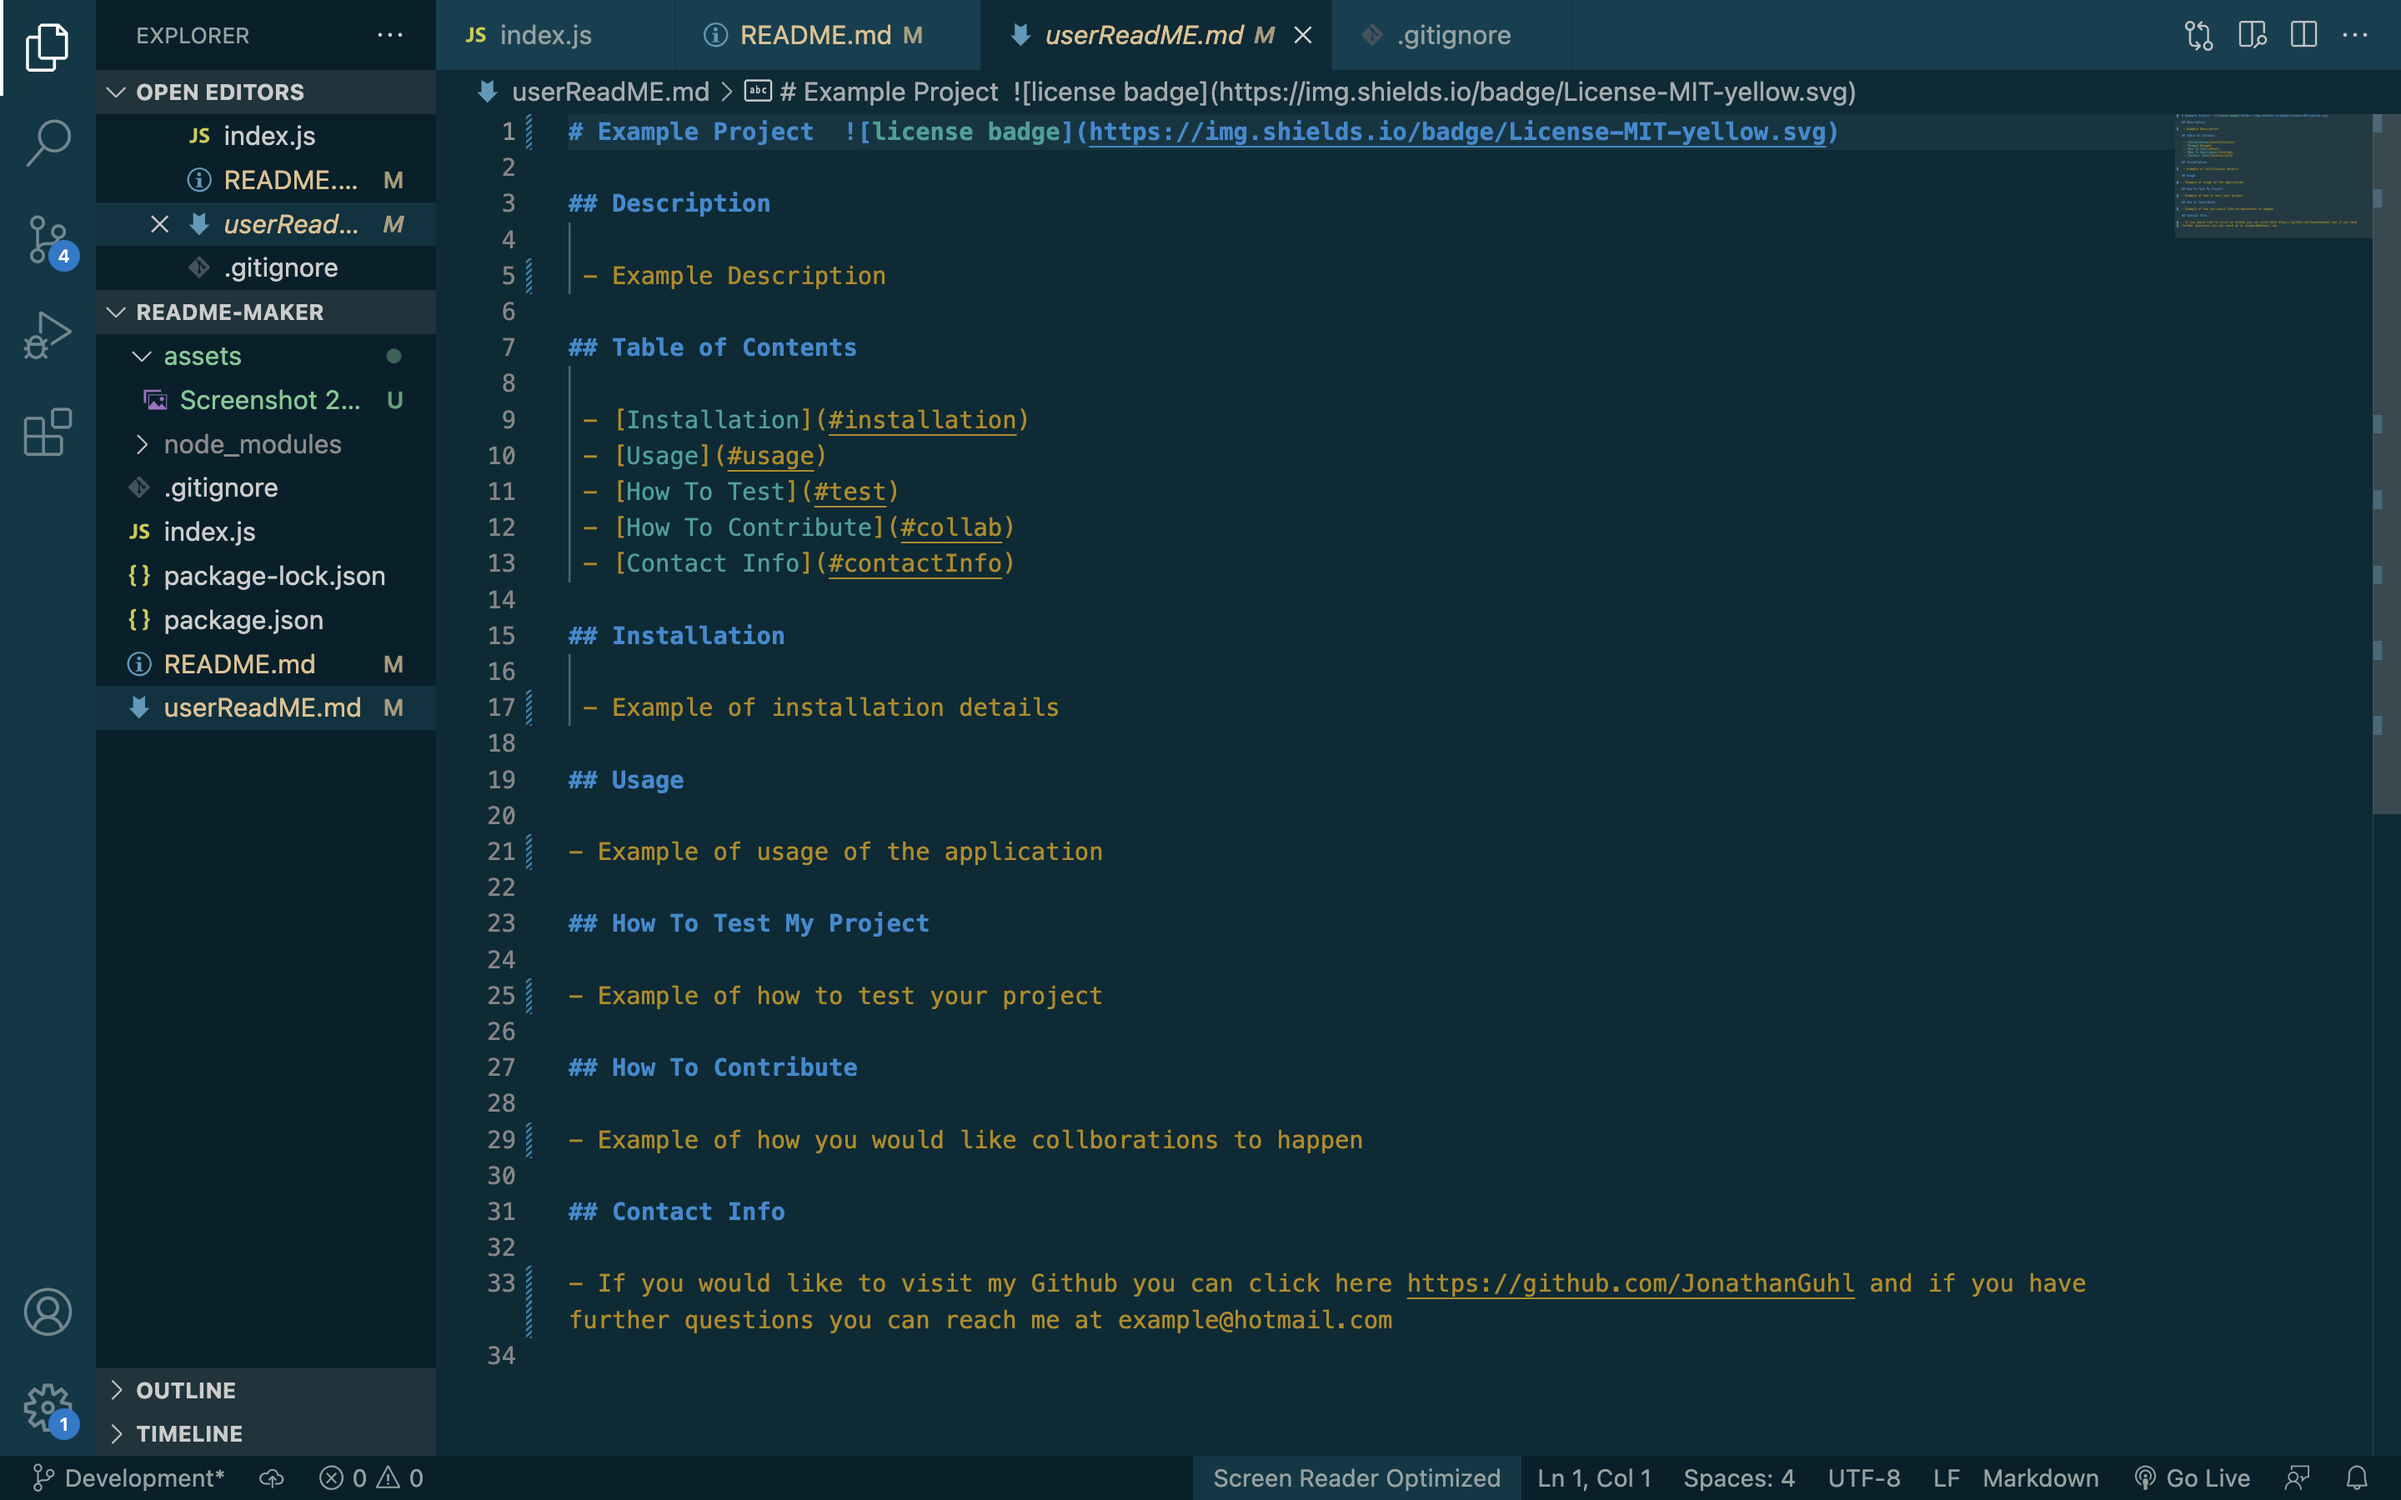
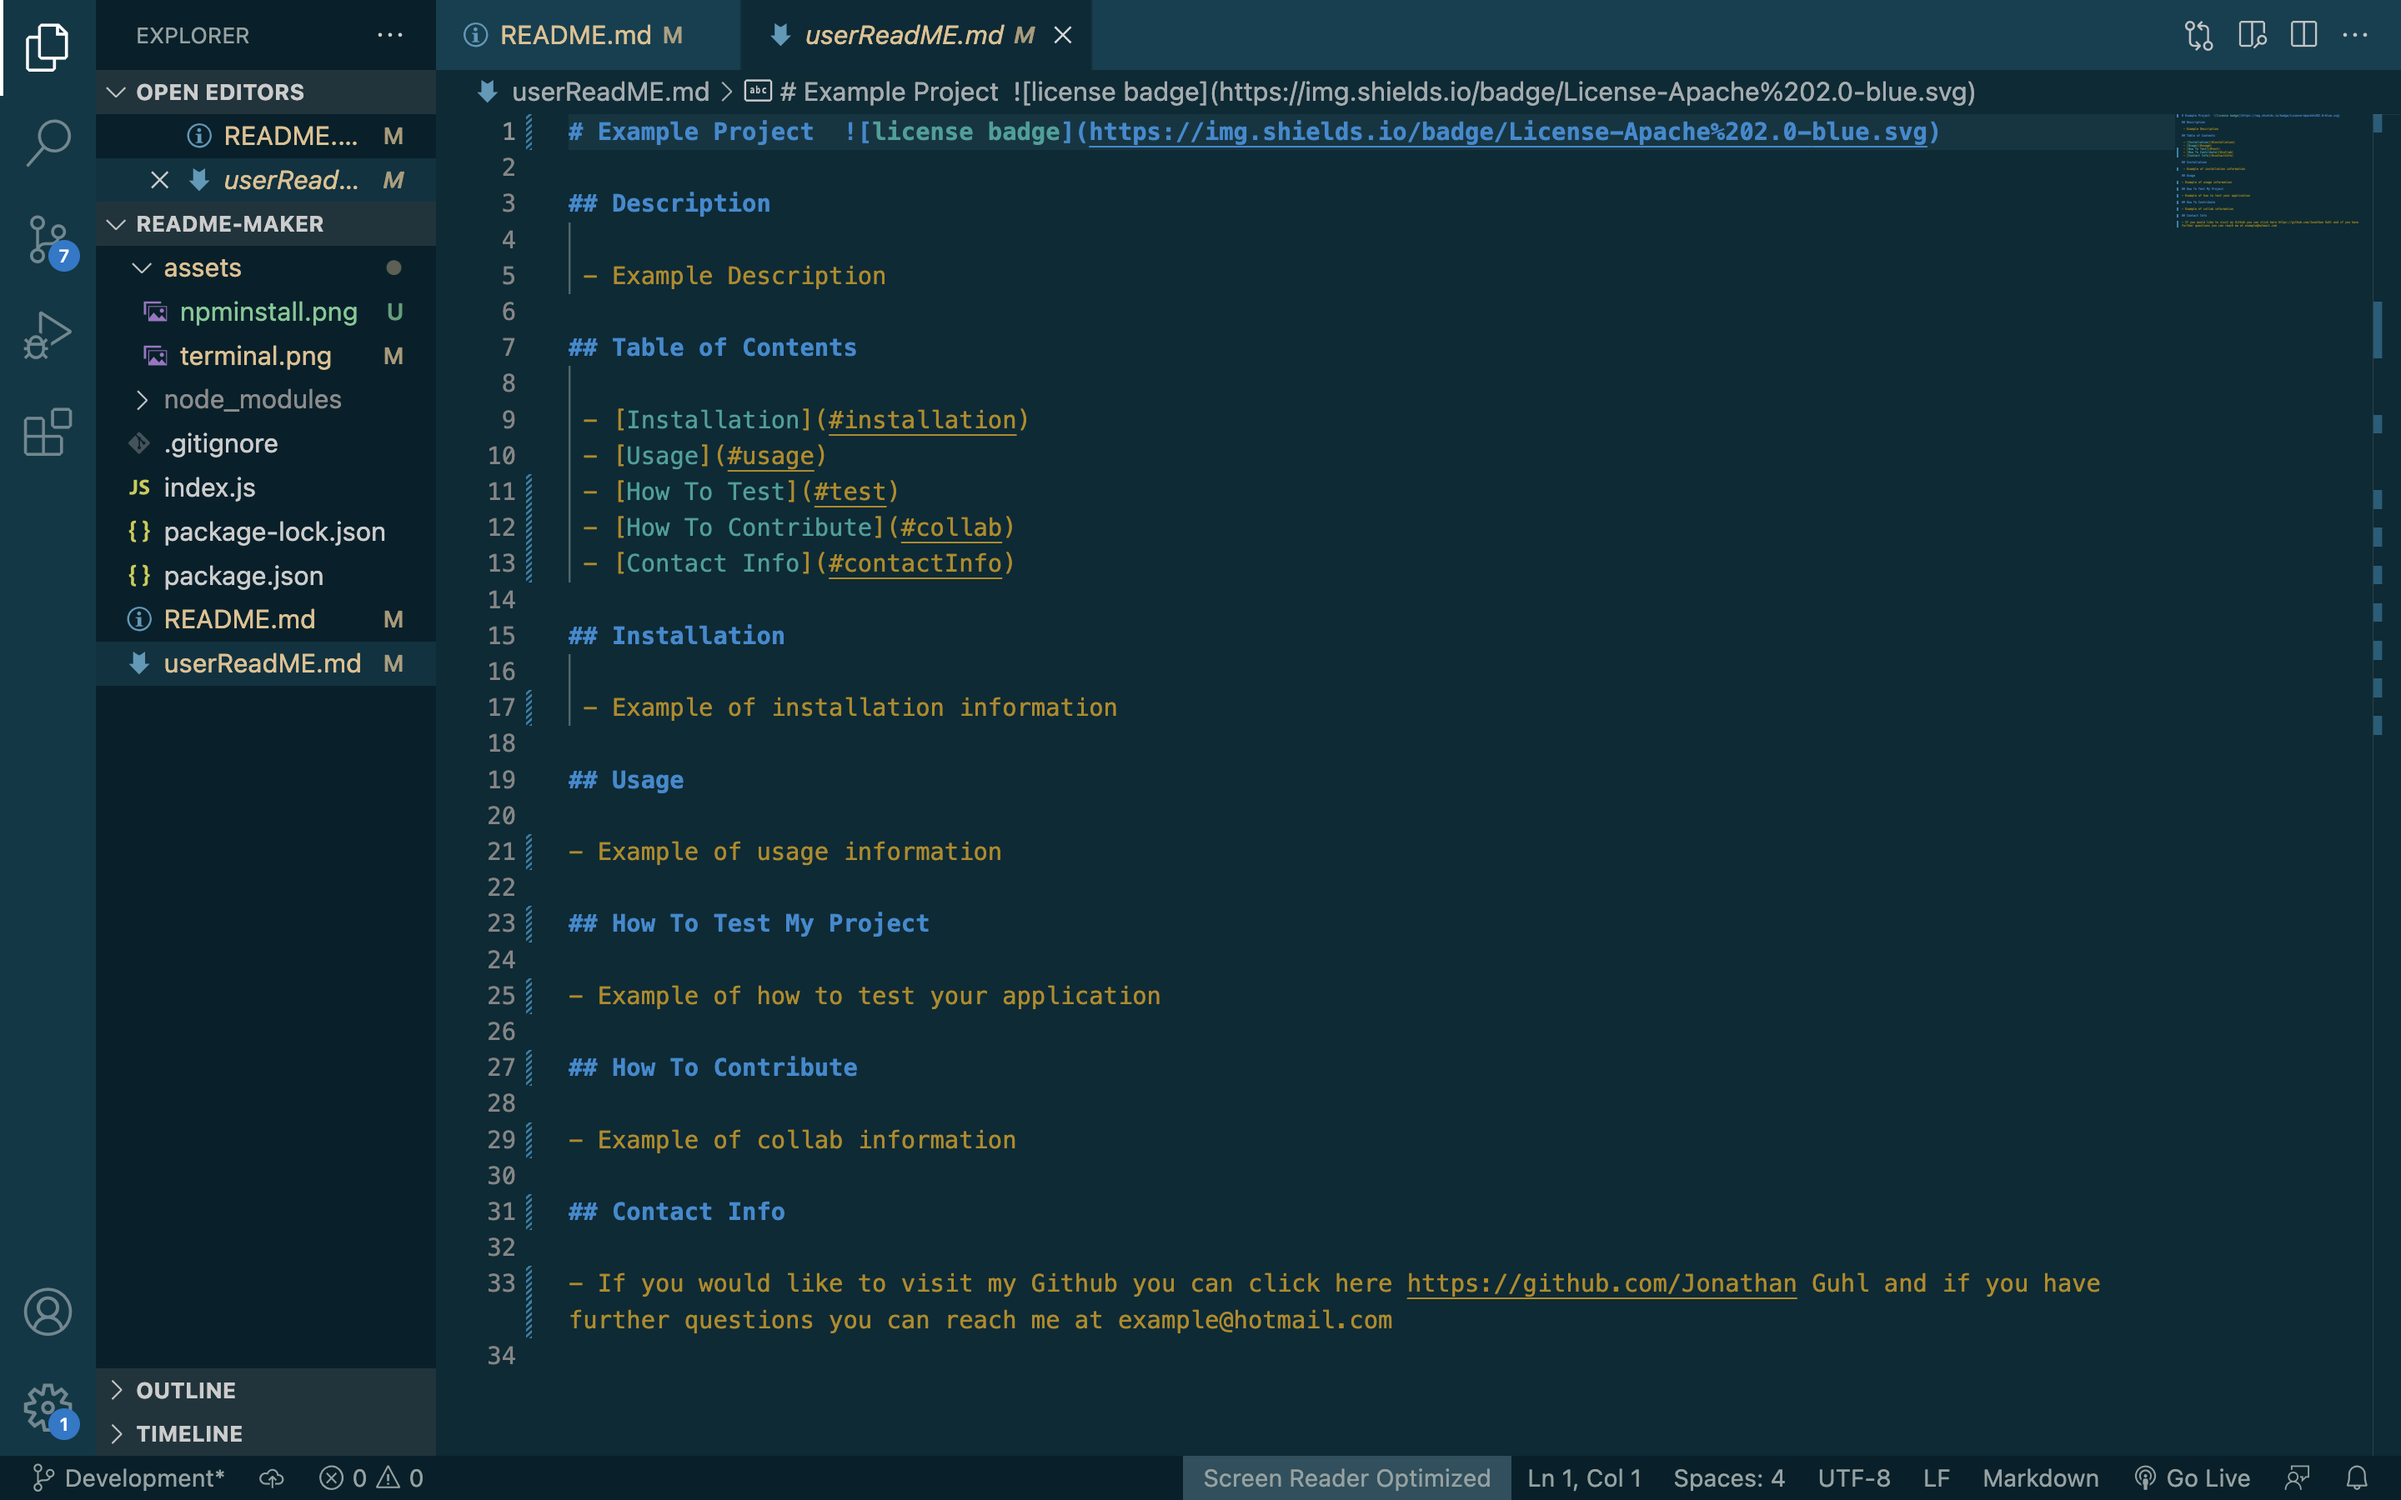
added new images to ReadME

diff --git a/README.md b/README.md
@@ -11,7 +11,9 @@
 - Before I give you step by step instructions, click this link for the video. If you need further help after the video, follow the step by step instructions under the video.
 - First, you will need to clone the repository using `git clone git@github.com:JonathanGuhl/Readme-Maker.git`
 - Second, open your terminal or use the terminal within whatever IDE you use and `cd` into whatever filed you stored the clone of the repository in.
-- Third, once you have used `cd` to get in the proper file where the repository is stored, using the command line run `node index.js` Make sure you have [Node.JS](https://nodejs.org/en/download/) before you do this!
+- Third, before you run the node commands you will need to type `npm install`. You will only need to run this comman the first time after you've cloned this repository. After you've run `npm install` you will see this in the terminal 
+![My Image](assets/npminstall.png)
+- Fourth, once you have used `npm install` to install the inquirer NPM, using the command line run `node index.js` Make sure you have [Node.JS](https://nodejs.org/en/download/) installed before you do this!
 - From there on the the command line you will be asked a series of questions. 
 - Once you have answered all of the questions your terminal should look like so 
  ![My Image](assets/terminal.png)

diff --git a/userReadME.md b/userReadME.md
@@ -1,4 +1,4 @@
-# Example Project  ![license badge](https://img.shields.io/badge/License-MIT-yellow.svg)
+# Example Project  ![license badge](https://img.shields.io/badge/License-Apache%202.0-blue.svg)
 
 ## Description
 
@@ -8,26 +8,26 @@
     
  - [Installation](#installation)
  - [Usage](#usage)
- - [Testing](#testing)
- - [Collaborations](#collaborations)
- - [Questions](#questions)
+ - [How To Test](#test)
+ - [How To Contribute](#collab)
+ - [Contact Info](#contactInfo)
 
 ## Installation
 
- - Example of installation details
+ - Example of installation information
 
 ## Usage 
 
-- Example of usage of the application
+- Example of usage information
 
-## Testing
+## How To Test My Project
 
-- Example of how to test your project
+- Example of how to test your application
 
-## Collaborations
+## How To Contribute
 
-- Example of how you would like collborations to happen
+- Example of collab information
 
-## Questions 
+## Contact Info 
 
-- If you would like to visit my Github you can click here https://github.com/JonathanGuhl and if you have further questions you can reach me at example@hotmail.com
+- If you would like to visit my Github you can click here https://github.com/Jonathan Guhl and if you have further questions you can reach me at example@hotmail.com
